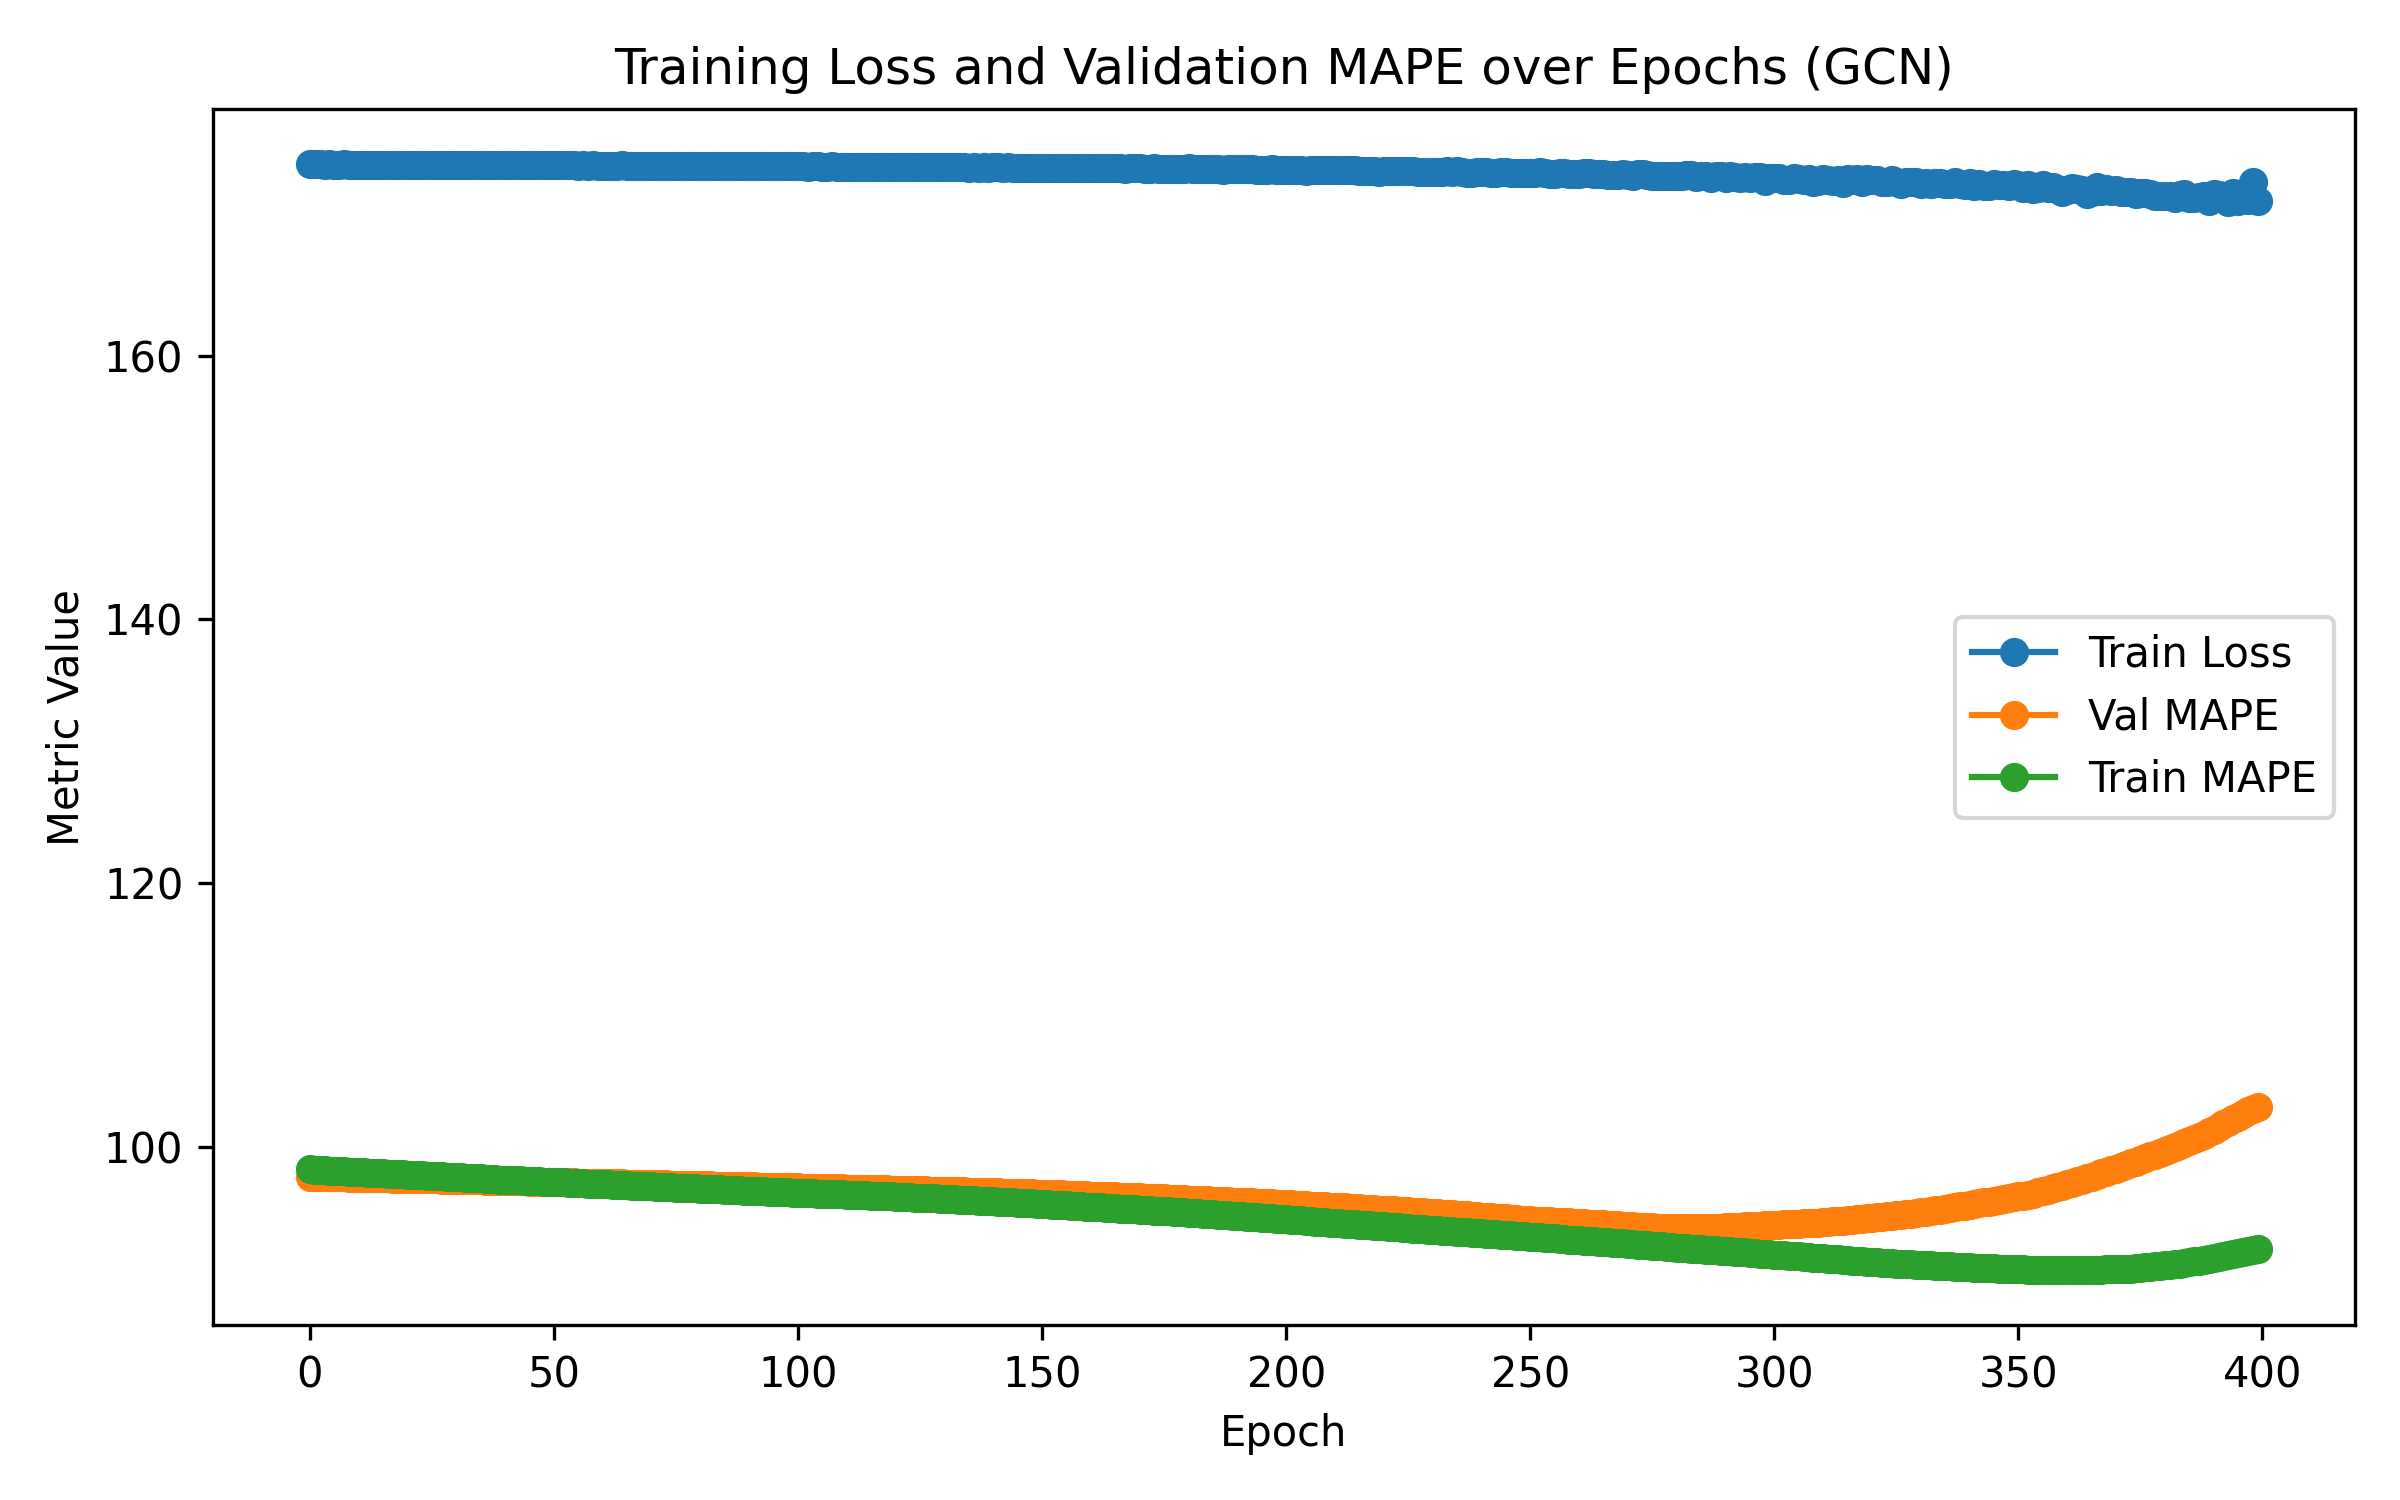
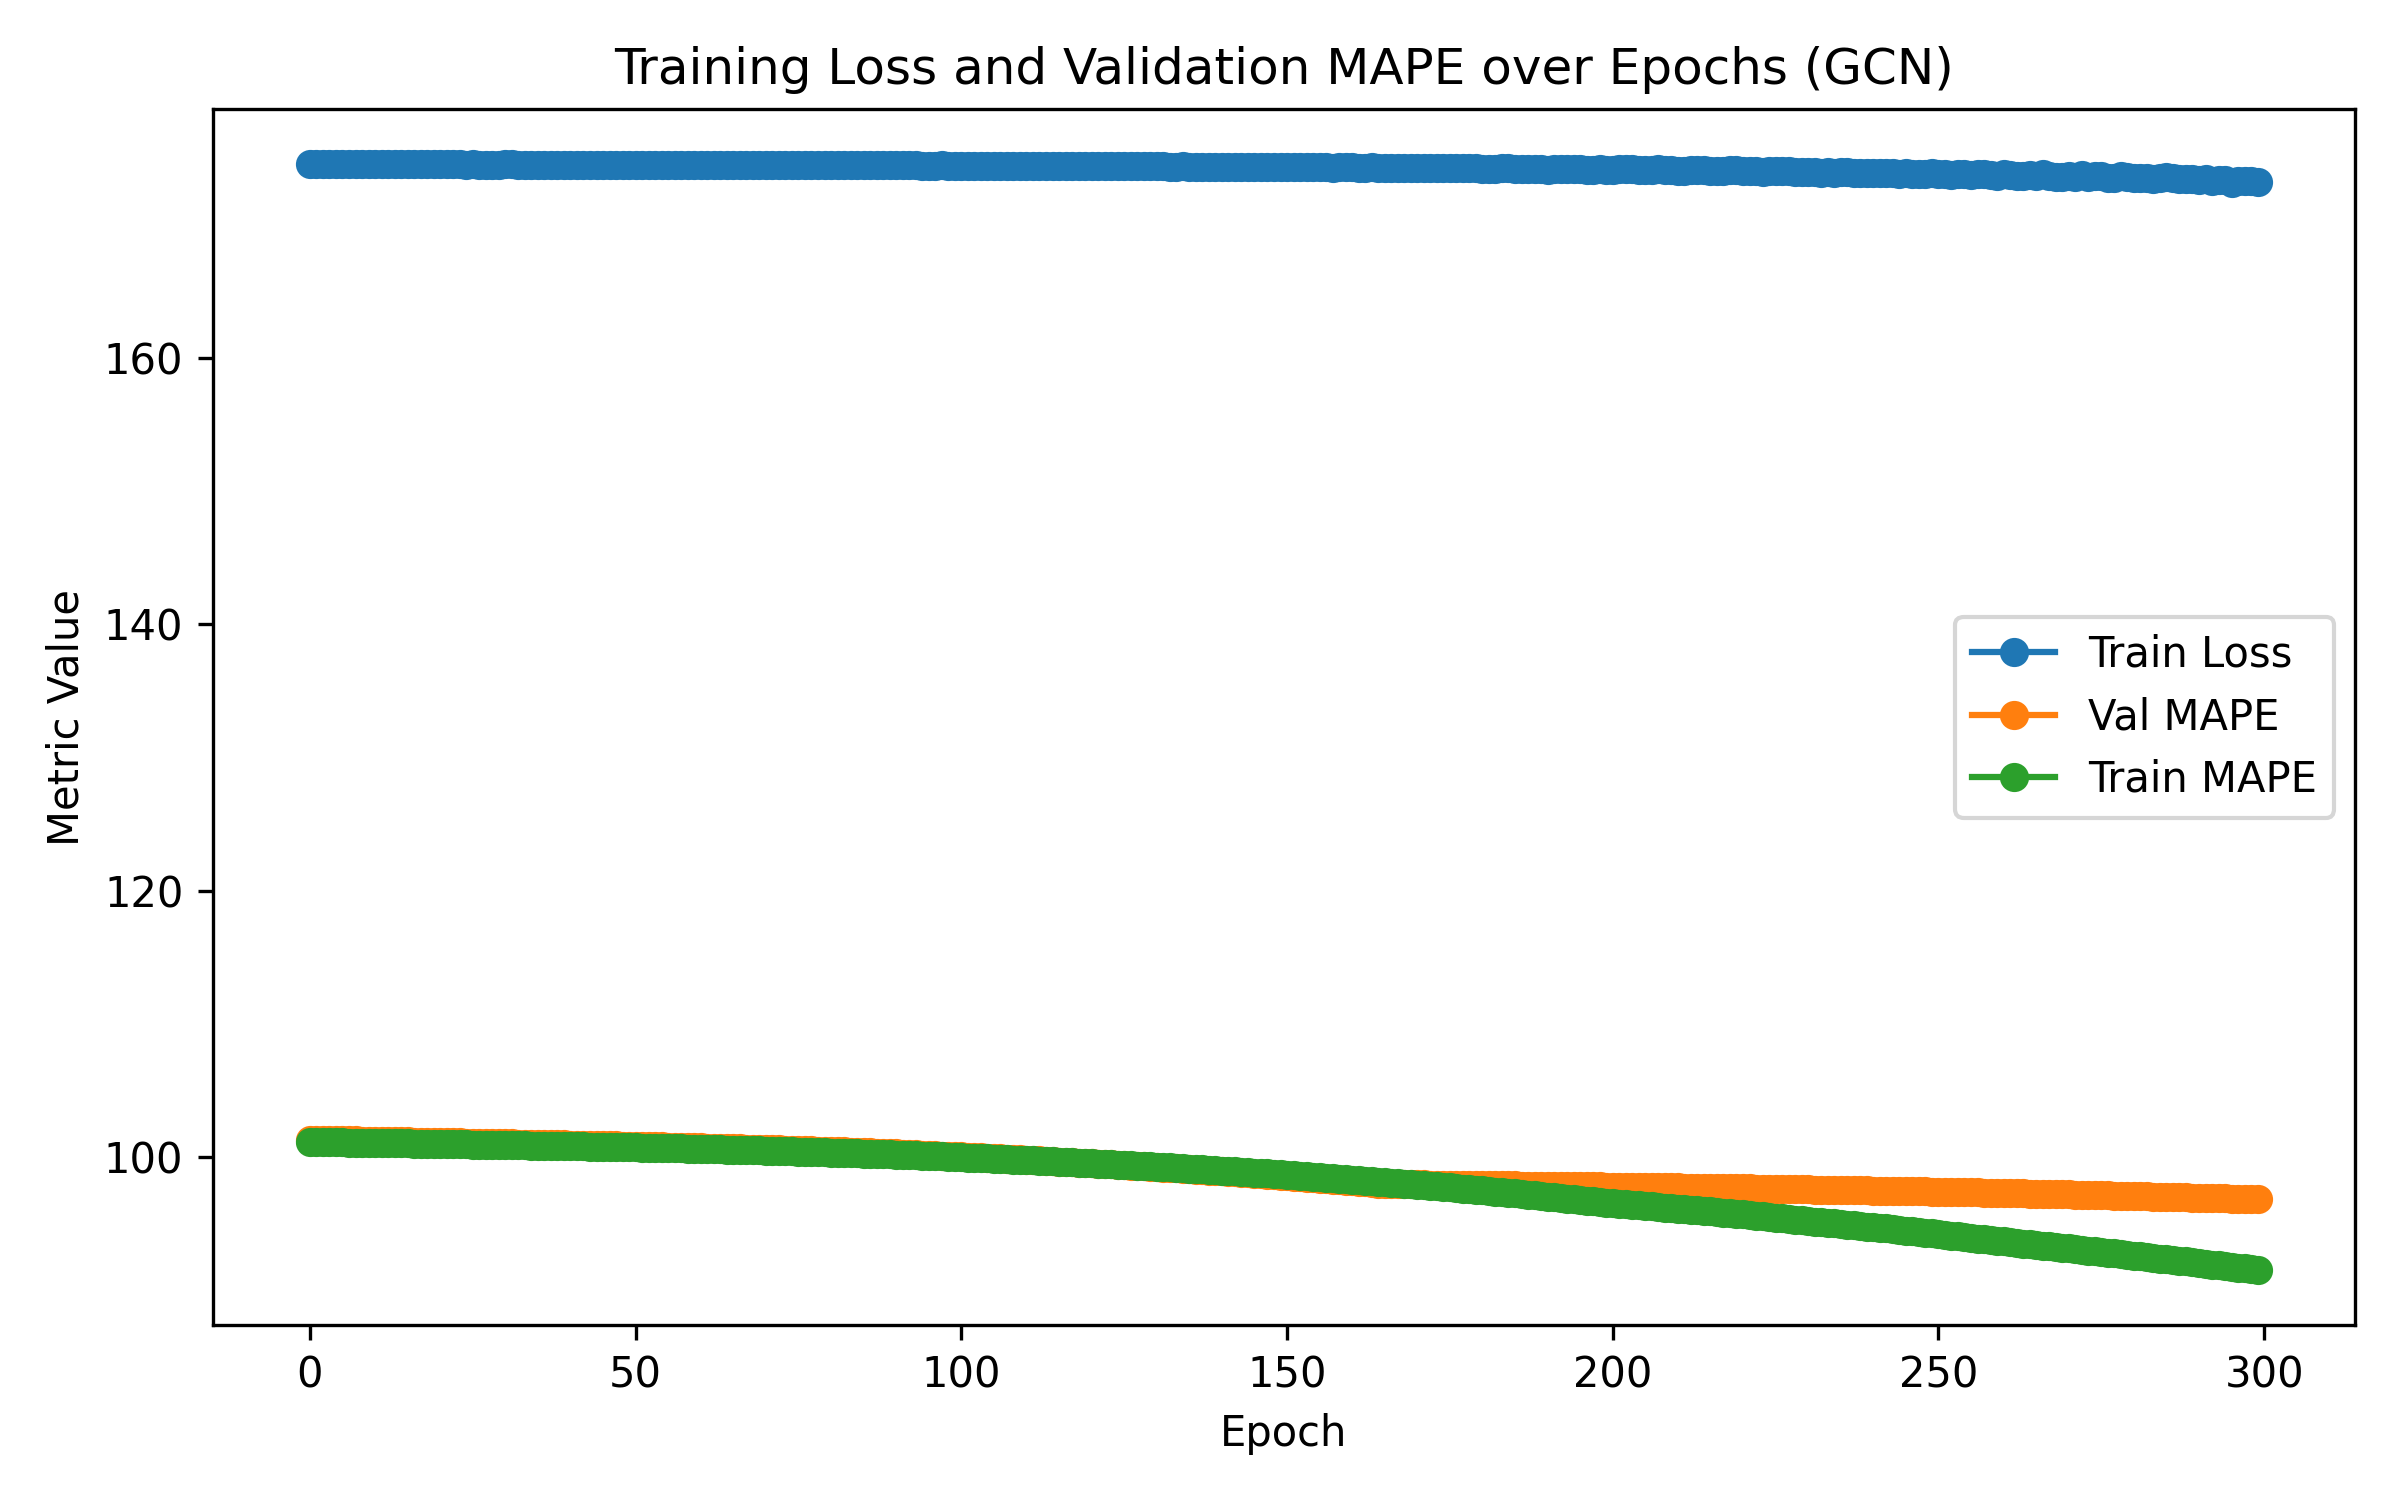
Add predicted vs actual map plots

diff --git a/dissGNN/data_processing.py b/dissGNN/data_processing.py
@@ -60,11 +60,13 @@ def load_data(shape_path_coarse, shape_path_fine, features_path_coarse, features
     col_coarse_pt = "ADM" + str(admin_level_coarse) + "_PT"
     
     node_features_coarse = pd.read_csv(features_path_coarse)
+    node_features_coarse["admin_level"] = admin_level_coarse
     node_features_coarse = node_features_coarse.rename(columns={col_coarse_pcode : "ADM_PCODE", col_coarse_pt : "ADM_PT"})
 
     col_fine_pcode = "ADM" + str(admin_level_fine) + "_PCODE"
     col_fine_pt = "ADM" + str(admin_level_fine) + "_PT"
     node_features_fine = pd.read_csv(features_path_fine)
+    node_features_fine["admin_level"] = admin_level_fine
     node_features_fine = node_features_fine.rename(columns={col_fine_pcode : "ADM_PCODE", col_fine_pt : "ADM_PT"})
 
     node_features = pd.concat([node_features_coarse, node_features_fine])
@@ -76,7 +78,7 @@ def load_data(shape_path_coarse, shape_path_fine, features_path_coarse, features
         print("Missing districts in the features file: ", missing_districts)
 
     #Retrieve node features in tensor form
-    x_features, y_feature, edges = process_feature_data(node_features, edges)
+    x_features, y_feature, edges, node_features = process_feature_data(node_features, edges)
 
     x = torch.tensor(x_features, dtype=torch.float)
 
@@ -91,7 +93,6 @@ def load_data(shape_path_coarse, shape_path_fine, features_path_coarse, features
     data.edge_weight = edge_weights
     data.y = torch.tensor(y_feature.values, dtype=torch.float)
     
-
     #Train/val/test split
     node_nums = data.num_nodes
     positions = torch.randperm(node_nums)
@@ -106,6 +107,10 @@ def load_data(shape_path_coarse, shape_path_fine, features_path_coarse, features
     data.train_mask[positions[:train_size]] = True
     data.val_mask[positions[train_size:train_size + val_size]] = True
     data.test_mask[positions[train_size + val_size:]] = True
+
+    admin_level_vals = node_features["admin_level"].values
+    data.admin_level = torch.tensor(admin_level_vals, dtype=torch.long)
+    data.admin_codes = np.array(node_features.index.values.tolist())
 
     #Densities plot to check outliers
     # densities = (data.y).cpu().numpy()  # Convert to NumPy if using PyTorch
@@ -123,7 +128,6 @@ def process_feature_data(node_features, edges):
 
     node_features.set_index("ADM_PCODE", inplace=True) #Set pcode as index
 
-
     y_feature = node_features["population_density"]
     x_unscaled = node_features.drop(columns=["population_density", "ADM_PT", "log_population", "T_TL"])
 
@@ -131,6 +135,8 @@ def process_feature_data(node_features, edges):
     x_unscaled[['building_count', 'building_area', 'osm_traffic', 'osm_transport', 'osm_places', 'osm_pofw', 'osm_pois', 'osm_railways', 'osm_roads']] = x_unscaled[['building_count', 'building_area', 'osm_traffic', 'osm_transport', 'osm_places', 'osm_pofw', 
                   'osm_pois', 'osm_railways', 'osm_roads']].div(x_unscaled['district_area'], axis=0)
     
+
+
     #Drop another unneeded column
     x_unscaled = x_unscaled.drop(columns=['district_area'])
 
@@ -146,6 +152,8 @@ def process_feature_data(node_features, edges):
     edges["source_num"] = edges["source"].map(area_to_index)
     edges["target_num"] = edges["target"].map(area_to_index)
 
-    return x_features, y_feature, edges
+
+    
+    return x_features, y_feature, edges, node_features
 
 

diff --git a/dissGNN/visualisations.py b/dissGNN/visualisations.py
@@ -1,7 +1,7 @@
 import matplotlib.pyplot as plt
 import networkx as nx
 import pandas as pd
-# import geopandas as pd
+import geopandas as gpd
 
 
 def plot_loss_val_curve(loss_arr, val_acc_arr, train_acc_arr, model_inst):
@@ -45,4 +45,35 @@ def plot_graph_structure(data):
     plt.show()
 
 
-# def plot_shape_file(shapefile_path):
+def plot_shape_file(shapefile_path, admin_level):
+    gdf = gpd.read_file(shapefile_path)
+
+
+    gdf.plot(figsize=(8, 6), edgecolor="black", alpha=0.5)
+
+    plt.title("Admin " + str(admin_level) + " Layout")
+    plt.xlabel("Longitude")
+    plt.ylabel("Latitude")
+    plt.savefig("output/map_visual/admin_" + str(admin_level) + "/map_visual_population_counts.png", dpi=500)
+    plt.show()
+
+def plot_shape_file_predictions(shapefile_path, pred, act, admin_level, data):
+    gdf = gpd.read_file(shapefile_path)
+    gdf = gdf.rename(columns={"ADM"+str(admin_level)+"_PCODE" : "ADM_PCODE"})
+    mask_admin_level = (data.admin_level == admin_level)
+    admin_codes = data.admin_codes
+    df = pd.DataFrame({"ADM_PCODE" : admin_codes[mask_admin_level.numpy()], "act" : act, "pred" : pred})
+
+    gdf_merged = gdf.merge(df, on="ADM_PCODE", how="left")
+
+    # Step 4: Plot side by side
+    fig, axes = plt.subplots(ncols=2, figsize=(12, 6))
+
+    gdf_merged.plot(column="act", cmap="OrRd", legend=True, ax=axes[0])
+    axes[0].set_title("Actual")
+
+    gdf_merged.plot(column="pred", cmap="OrRd", legend=True, ax=axes[1])
+    axes[1].set_title("Predicted")
+
+    plt.savefig("output/map_visual/predictions/map_visual_population_counts.png", dpi=500)
+    plt.show()

diff --git a/dissGNN/main.py b/dissGNN/main.py
@@ -49,13 +49,20 @@ if __name__ == "__main__":
     
     hidden_size, message_passing_count, drop_prob, learning_rate, weight_decay = 32, 6, 0.3,5e-5, 5e-4
 
-    model_inst = model.GraphSage(input_size, output_size, hidden_size, message_passing_count, drop_prob)
+    model_inst = model.GCN(input_size, output_size, hidden_size, message_passing_count, drop_prob)
 
     loss_fn = nn.SmoothL1Loss() 
     optimizer = torch.optim.Adam(model_inst.parameters(), lr = learning_rate, weight_decay = weight_decay)
-    loss, val_acc, train_acc = train_validate.train_loop(400, model_inst, data, optimizer, loss_fn)
+    loss, val_acc, train_acc = train_validate.train_loop(300, model_inst, data, optimizer, loss_fn)
+
+    pred, act = train_validate.produce_predictions(data, model_inst, 3)
+
 
     visualisations.plot_loss_val_curve(loss, val_acc, train_acc, model_inst)
     visualisations.plot_graph_structure(data)
+    visualisations.plot_shape_file("data/shapefiles/admin_2/moz_admbnda_adm2_ine_20190607.shp", 2)
+    visualisations.plot_shape_file("data/shapefiles/admin_3/moz_admbnda_adm3_ine_20190607.shp", 3)
+    visualisations.plot_shape_file_predictions("data/shapefiles/admin_3/moz_admbnda_adm3_ine_20190607.shp", pred, act, 3, data)
 
     model_inst.eval()
+

diff --git a/dissGNN/train_validate.py b/dissGNN/train_validate.py
@@ -1,5 +1,6 @@
 import torch
 from sklearn.preprocessing import StandardScaler
+import numpy as np
 
 def train(model, optimizer, data, loss_fn):
     model.train()
@@ -57,4 +58,14 @@ def train_loop(num_epochs, model, data, optimizer, loss_fn):
     return loss_arr, val_acc_arr, train_acc_arr
 
 
+def produce_predictions(data, model, admin_level):
+    model.eval()
+    mask_admin_level = (data.admin_level == admin_level)
     
+    with torch.no_grad():
+        predictions = model(data.x, data.edge_index, data.edge_weight)
+
+    predictions_final = np.log1p(predictions[mask_admin_level].cpu().numpy().flatten())
+    actual_final = np.log1p(data.y[mask_admin_level].cpu().numpy().flatten())
+
+    return predictions_final, actual_final
